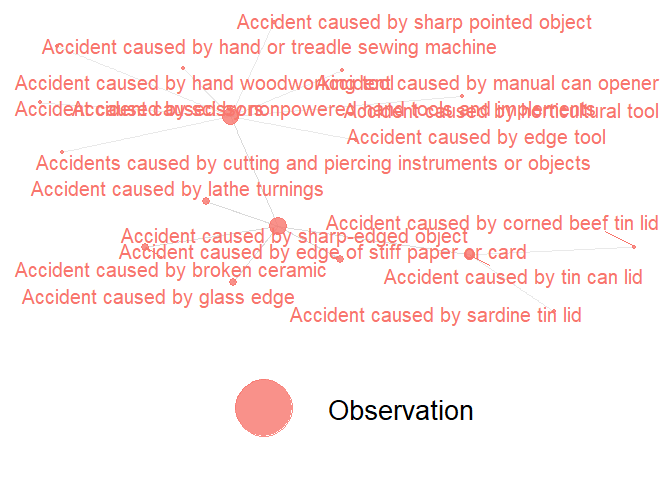
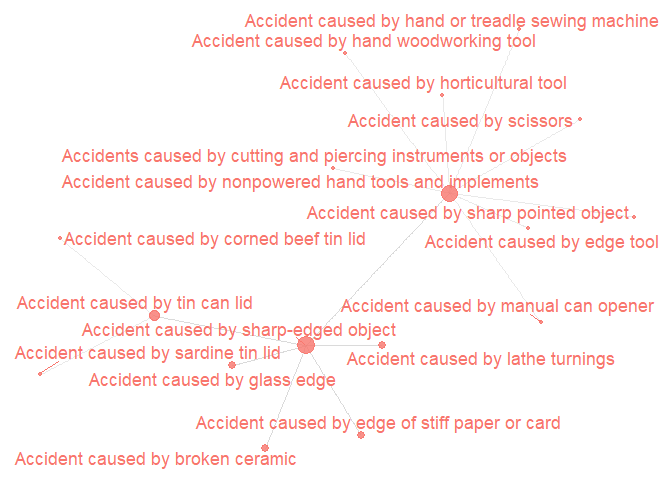
improve readme omop_graph()

Changed region(s): [[0.0, 0.1562, 1.0, 0.9688], [0.0625, 0.0312, 1.0, 0.125]]

diff --git a/README.md b/README.md
@@ -224,6 +224,15 @@ data.frame(concept_id=(c(3571338L,3655355L)),
 
 ## `omop_graph()`: starting to visualise OMOP hierarchies
 
+``` r
+
+relations <- omop_relations_recursive(4055049L, 
+                                      r_ids=c('Is a','Subsumes'), 
+                                      num_recurse=2) 
+
+omop_graph(relations, saveplot=FALSE, graphtitle=NULL, legendshow=FALSE, nodetxtsize=7)
+```
+
 <img src="man/figures/README-omop_graph-1.png" width="100%" />
 
 ## Vocabularies included
